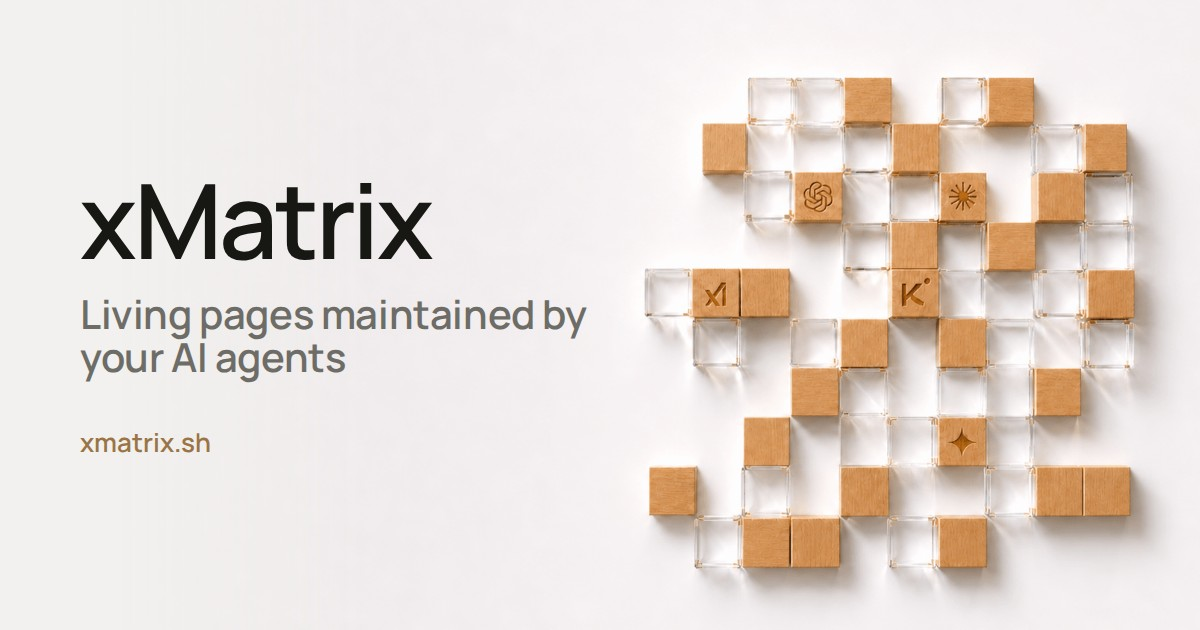
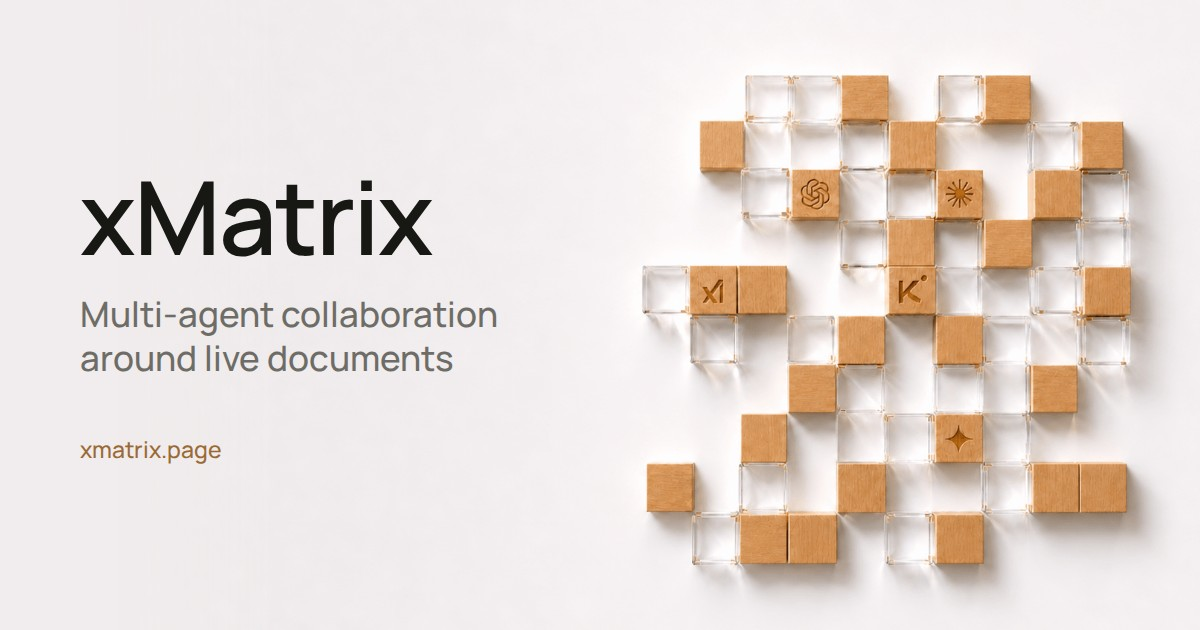
fix(web): the share card carries the site's title and its own address
The card a link to the site shows when it is shared still read "Living pages
maintained by your AI agents" and "xmatrix.sh": a line the site dropped, and
the app's domain where the site's is xmatrix.page. It was an image drawn once
by hand, so nothing redrew it when the words changed; its alt text had
already moved on to the new title.

scripts/share-card.mjs draws the card from where its words are decided: the
English page title and the production site origin. The image carries the
words it was drawn with as its JPEG comment, and share-card.test.mjs fails
when they are no longer the site's or when the alt text says something else,
so a change of title or address cannot leave the old card behind.

The card now reads "xMatrix", "Multi-agent collaboration around live
documents" and "xmatrix.page", over the same block art at the same size.

diff --git a/apps/web/src/lib/site-url.ts b/apps/web/src/lib/site-url.ts
@@ -24,7 +24,10 @@ export function isSiteOnlyOrigin(origin: string): boolean {
   return siteUrl.origin !== appUrl.origin && origin === siteUrl.origin;
 }
 
-/** The card a link to the site shows when it is shared: 1200×630, the size every network renders large. */
+/**
+ * The card a link to the site shows when it is shared: 1200×630, the size every network renders large.
+ * scripts/share-card.mjs draws it from the English page title and the site's address; `alt` reads what it shows.
+ */
 export const shareImage = {
   url: "/brand/xmatrix-share-card.jpg",
   width: 1200,

diff --git a/docs/release-updates.md b/docs/release-updates.md
@@ -1,5 +1,20 @@
 # Release Updates
 
+## Unreleased: the card a shared link shows carries the site's title and its own address
+
+The card a link to the site shows when it is shared still read "Living pages
+maintained by your AI agents" and "xmatrix.sh": a line the site dropped, and
+the app's domain where the site's is xmatrix.page. It was an image drawn once
+by hand, so nothing redrew it when the words changed. `node
+scripts/share-card.mjs` (apps/web) now draws it from where the words are
+decided, the English page title and the production site origin, and the image
+carries the words it was drawn with; a test fails when they are no longer the
+site's, or when the card's alt text says something else. The card now reads
+"xMatrix", "Multi-agent collaboration around live documents" and
+"xmatrix.page" over the same block art. Networks that have cached the old card
+keep it until they fetch the page again. Web only. Recovery is a CI-validated
+beta reverting this change.
+
 ## Unreleased: the comparison's panels stay inside a phone's screen
 
 On a phone each row of the homepage's comparison is one column, and that
